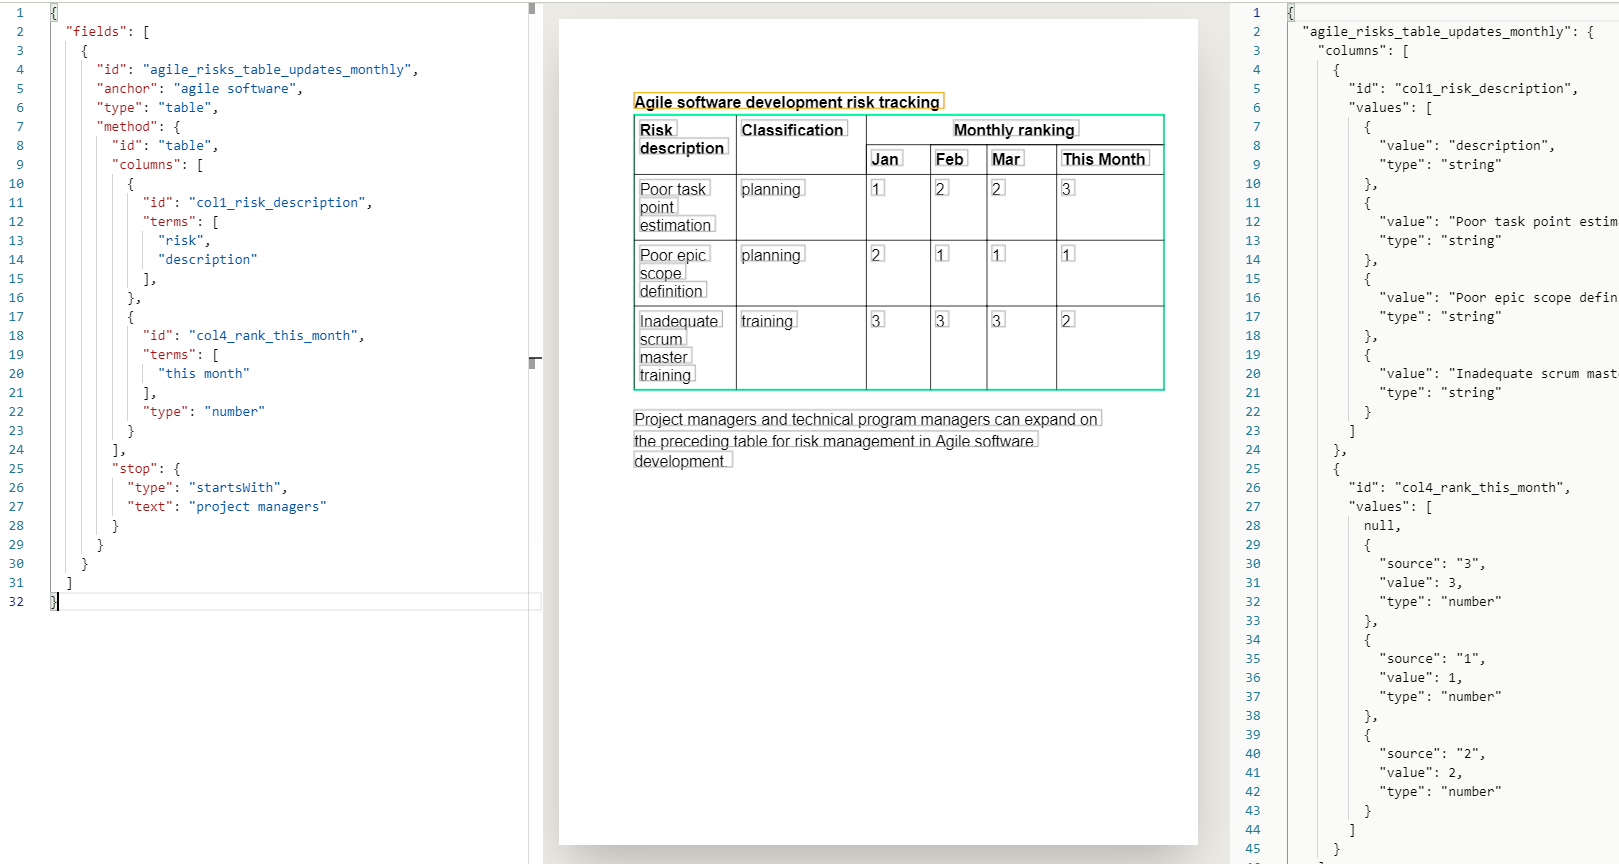
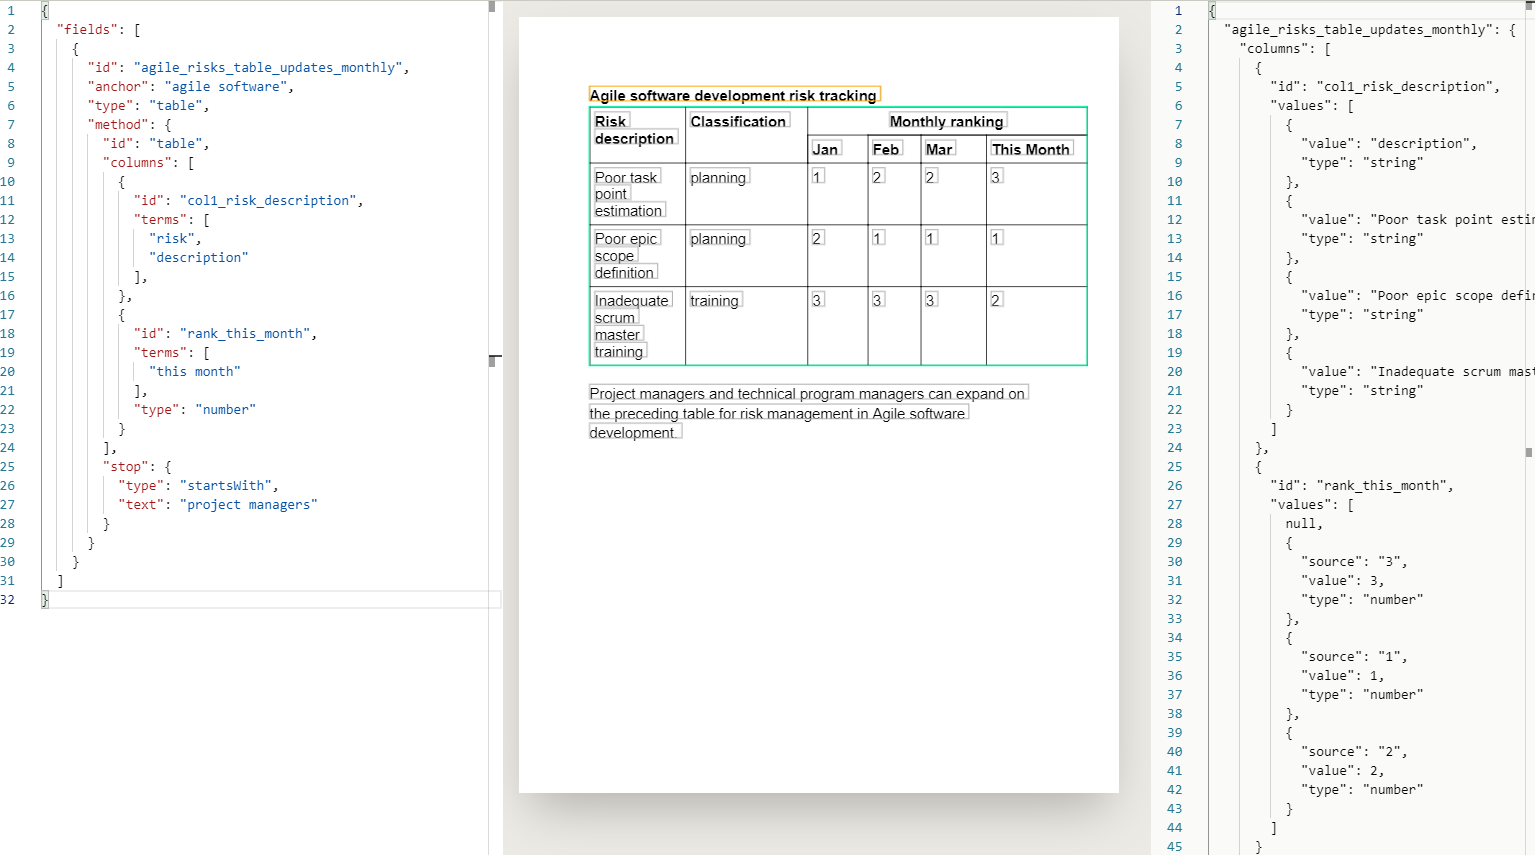
minor updates table

diff --git a/readme-sync/v0/senseml-reference/300 - methods/220 - text-table.md b/readme-sync/v0/senseml-reference/300 - methods/220 - text-table.md
@@ -11,9 +11,7 @@ Parameters
 | :------------------- | :----------- | :----------------------------------------------------------- |
 | id **required**      | `table`      | When you specify the Table method in a Field query object, you must also specify `"type": "table"` in the field's parameters. |
 | columns **required** | array        | An array of objects with the following parameters:<br/> *`id` (**required**): The id for the column in the extraction output<br/> *`minX` (**required**):  The distance in inches on the page from the left edge of the page to the left edge of the column.  <br/>  *`maxX` (**required**):  The distance in inches on the page from the left edge of the page to the right edge of the column.  <br/>  *`type`: The type of the value in the table cell. For more information about types, see [Field query object](doc:field-query-object).<br/>   *`isRequired` (default false):  If true, the extraction will not return rows where a value is not present in this column |
-| minX                 | number       |                                                              |
-| maxX                 | number       |                                                              |
-| offsetY              | number       |                                                              |
+| offsetY              | number       | The offset, in inches, along a Y-axis from the anchor text, from which to start recognizing the table. |
 | stop                 | Match object | **Recommended** [Match object](doc:anchor-object#section-match-object)  to stop table recognition. OCR is a prerequisite for table recognition. With `stop` defined, the engine selectively OCRs the pages from the starting anchor to the page with the stop match. Otherwise, the engine OCRs all pages, which can impact performance. |
 
 Examples
@@ -63,8 +61,3 @@ This example uses the following config:
 ```
 
 
-
-Notes
-====
-
-Use the Table method or Text Table method when dealing with tables in the same document type that have a variable number of columns. This method is more computationally expensive and less fast than the Fixed Table method, but is less sensitive to changes in table formatting.

diff --git a/readme-sync/v0/senseml-reference/300 - methods/210 - table.md b/readme-sync/v0/senseml-reference/300 - methods/210 - table.md
@@ -46,7 +46,7 @@ This example uses the following config:
             ],
           },
           {
-            "id": "col4_rank_this_month",
+            "id": "rank_this_month",
             "terms": [
               "this month"
             ],
@@ -68,4 +68,4 @@ This example uses the following config:
 Notes
 ====
 
-Use the Table method or Text Table method when dealing with tables in the same document type that have a variable number of columns. This method is more computationally expensive and less fast than the Fixed Table method, but is less sensitive to changes in table formatting.
+The Table method is slower than the Fixed Table method, but is less sensitive to changes in table formatting. Use the Table method when dealing with tables in the same document type that have a variable number of columns. 
